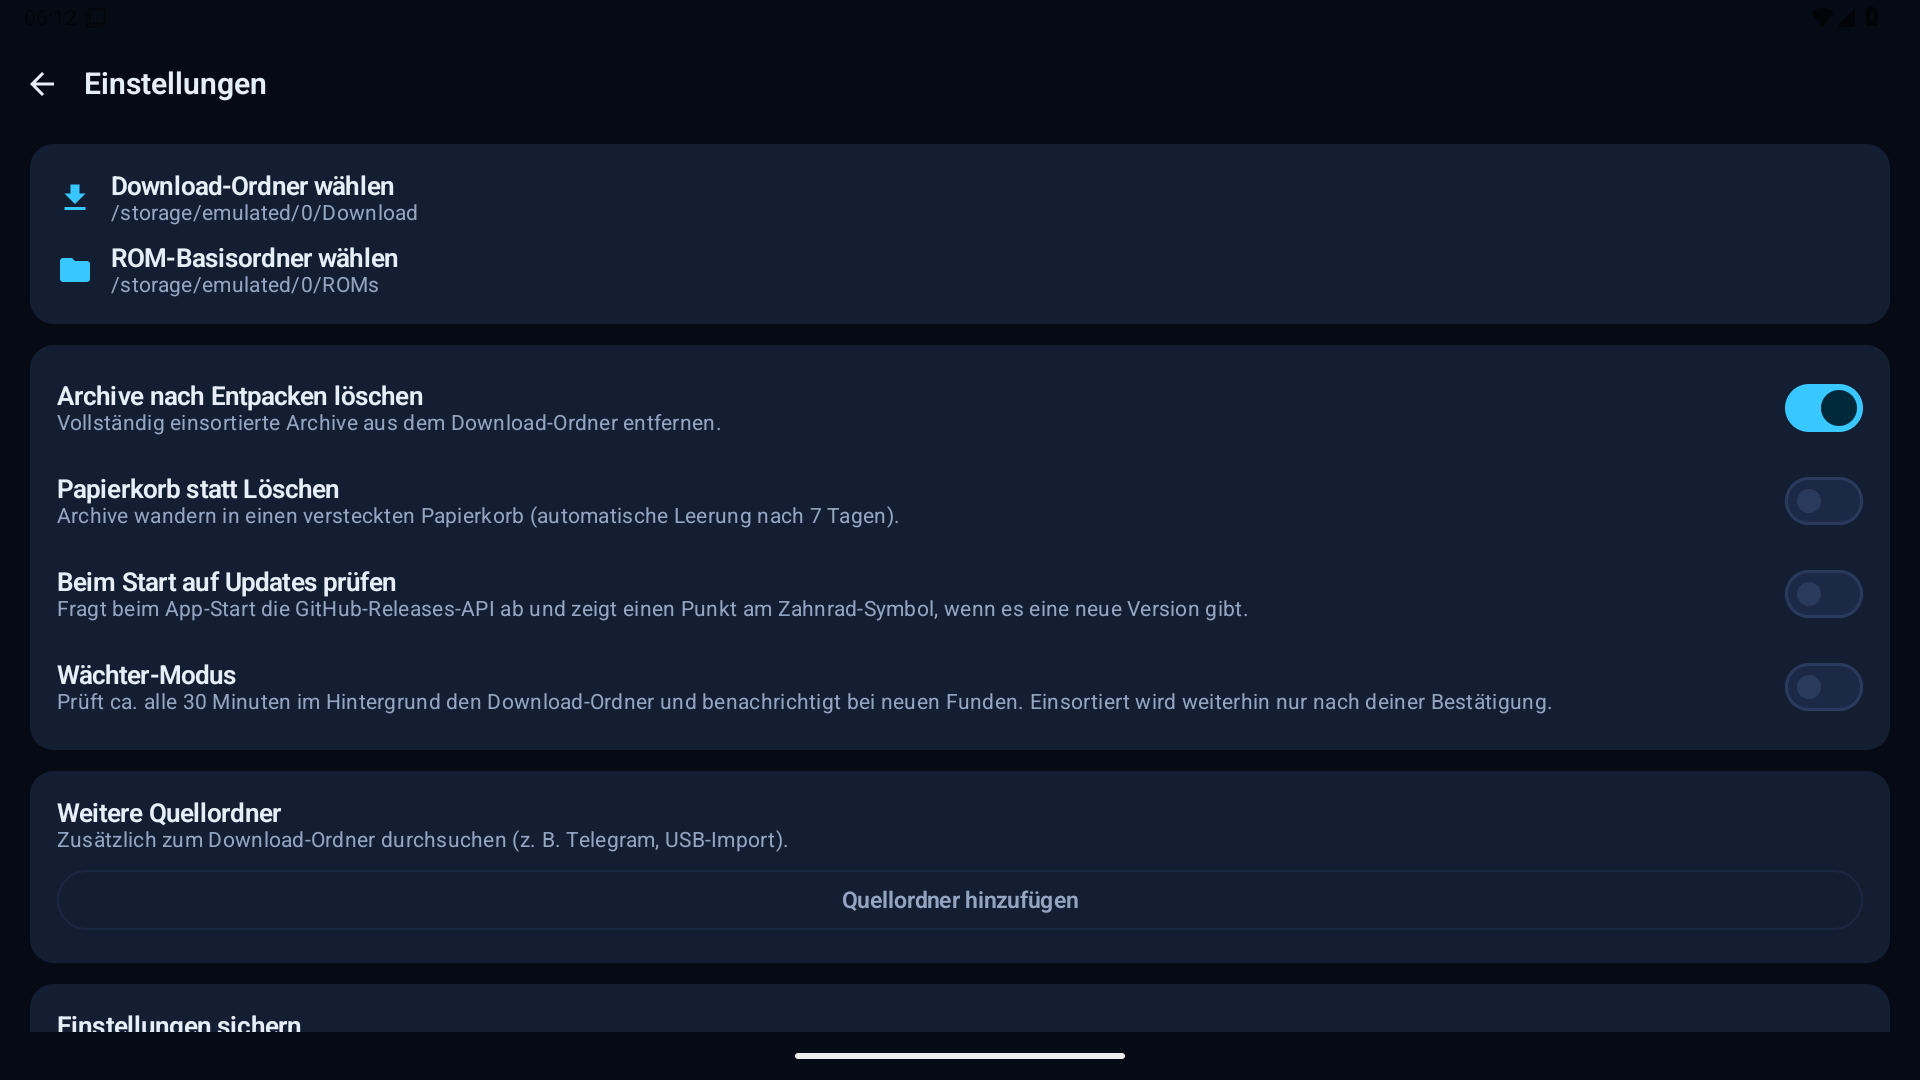
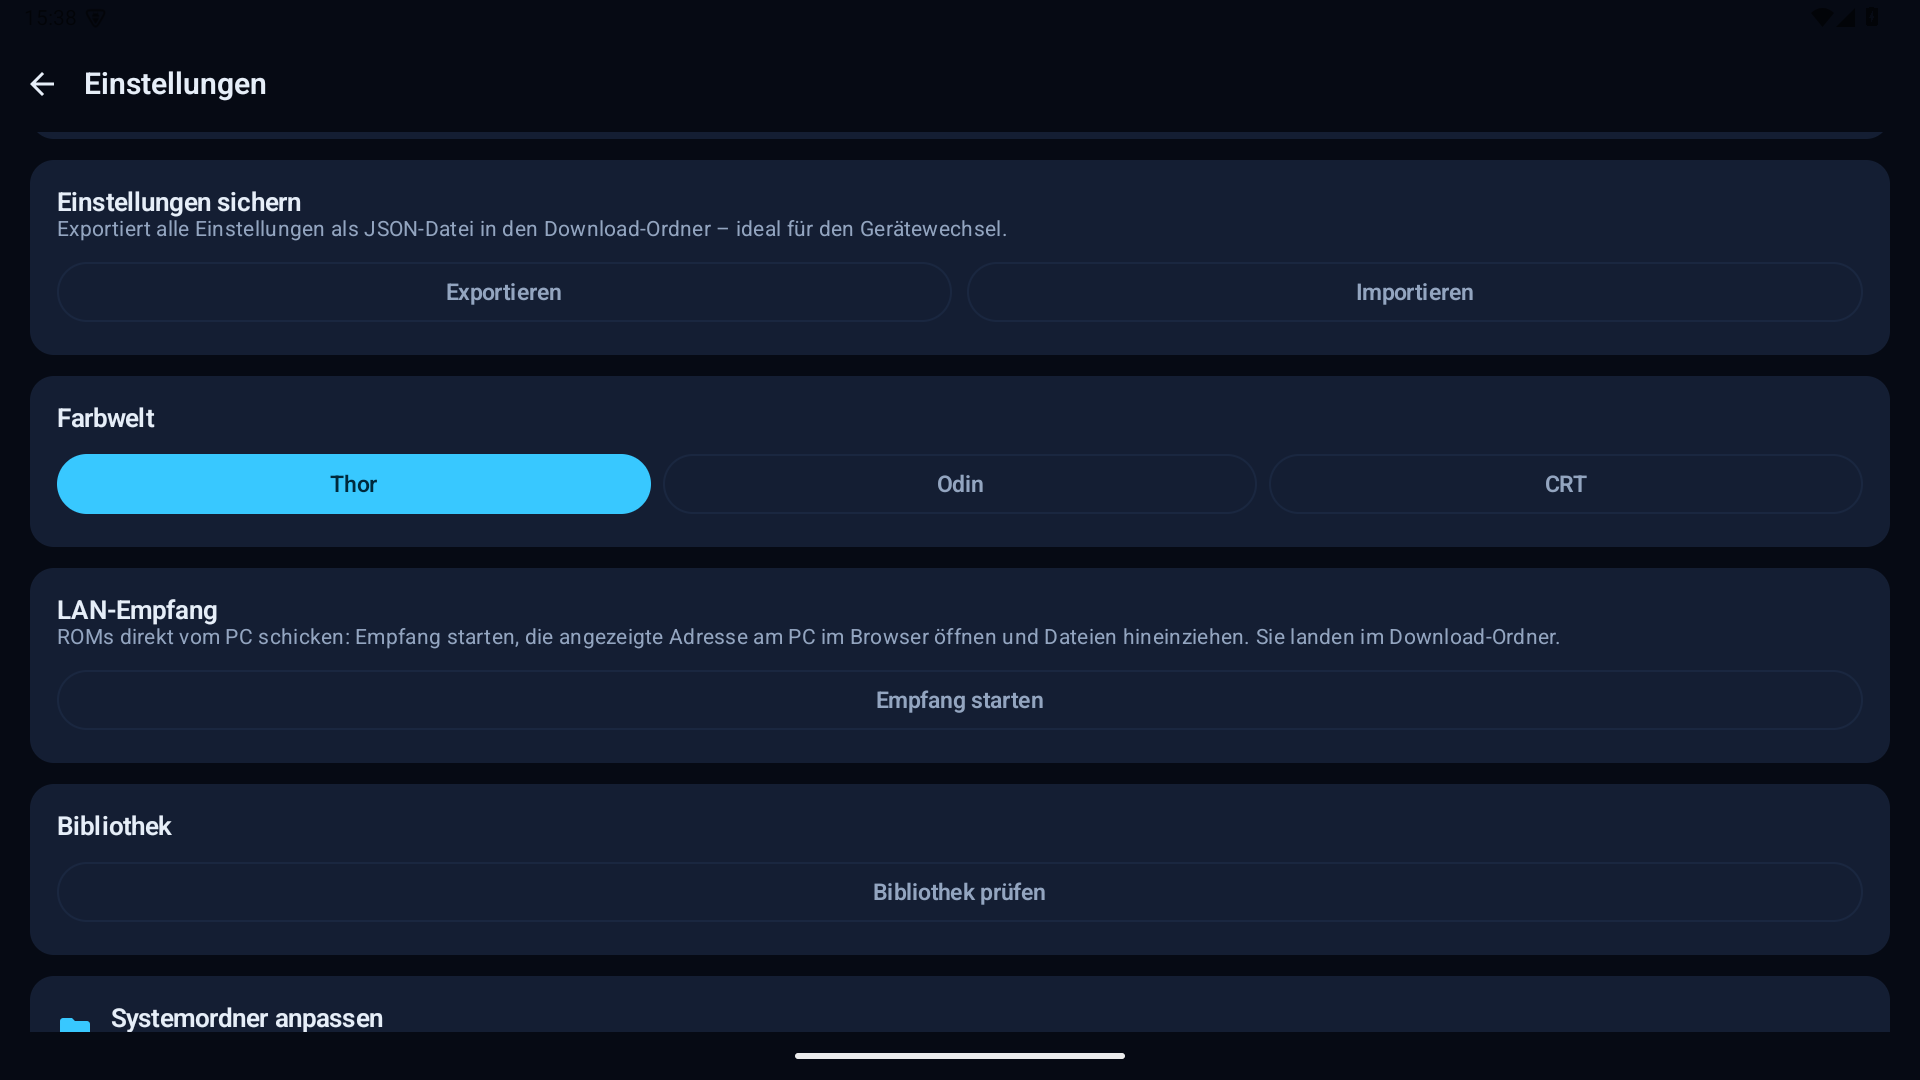
Docs: How-to + Settings-Screenshot auf v1.0.0-Stand
- HOWTO (DE/EN): LAN-Empfang + Share-Ziel in Schritt 2, Gamepad/
  DAT-Verifizierung/Farbwelten im Gut-zu-wissen-Block
- settings.png neu: zeigt Farbwelt-Auswahl, LAN-Empfang, Bibliothek
  und Einstellungs-Backup (aufgenommen mit v1.0.0 im Emulator)

diff --git a/docs/HOWTO.md b/docs/HOWTO.md
@@ -35,6 +35,11 @@ die Dateien landen im gewählten Download-Ordner. Gepackt (ZIP, 7z, RAR4) oder
 ungepackt, beides funktioniert. Weitere Quellordner kannst du in den
 Einstellungen ergänzen.
 
+**Am bequemsten: LAN-Empfang.** In den Einstellungen „Empfang starten",
+die angezeigte Adresse am PC im Browser öffnen (gleiches WLAN) und die
+Dateien einfach auf die Seite ziehen — ganz ohne Kabel. Alternativ kannst
+du Dateien aus anderen Apps per „Teilen → Thor ROM Butler" schicken.
+
 ### Schritt 3: Scannen
 
 Die App durchsucht den Ordner und analysiert jeden Fund — bei Archiven
@@ -77,6 +82,13 @@ anders überlegst.
 - **Arcade/MAME-Sets** bleiben gepackt und werden als Ganzes verschoben.
 - **Eigene Ordnernamen** (z. B. `ps1` statt `psx`): Einstellungen →
   „Systemordner anpassen".
+- **Gamepad**: D-Pad/Stick navigiert, A bestätigt, B geht zurück —
+  Touch funktioniert parallel weiter.
+- **Dump-Verifizierung**: Ordner mit No-Intro/Redump-`.dat`-Dateien in den
+  Einstellungen wählen — einsortierte ROMs werden per Prüfsumme
+  verifiziert (Ergebnis im Log).
+- **Farbwelten**: Thor (blau), Odin (violett) und CRT (grün) in den
+  Einstellungen.
 - **Updates**: Einstellungen → „Auf Updates prüfen", oder via
   [Obtainium](https://github.com/ImranR98/Obtainium).
 
@@ -116,6 +128,11 @@ Any way you like: browser download, copied from a PC over USB, Telegram, … —
 as long as the files end up in your chosen download folder. Zipped (ZIP, 7z,
 RAR4) or loose, both work. Additional source folders can be added in the
 settings.
+
+**Most convenient: LAN receive.** Tap "Start receiving" in Settings, open
+the shown address in a browser on your PC (same Wi-Fi) and simply drop the
+files onto the page — no cable at all. Alternatively, send files from other
+apps via "Share → Thor ROM Butler".
 
 ### Step 3: Scan
 
@@ -158,6 +175,11 @@ your mind.
 - **Arcade/MAME sets** stay zipped and are moved as a whole.
 - **Custom folder names** (e.g. `ps1` instead of `psx`): Settings →
   "Customize system folders".
+- **Gamepad**: D-pad/stick navigates, A confirms, B goes back — touch
+  keeps working alongside.
+- **Dump verification**: pick a folder with No-Intro/Redump `.dat` files in
+  Settings — sorted ROMs are verified by checksum (result in the log).
+- **Color themes**: Thor (blue), Odin (violet) and CRT (green) in Settings.
 - **Updates**: Settings → "Check for updates", or via
   [Obtainium](https://github.com/ImranR98/Obtainium).
 